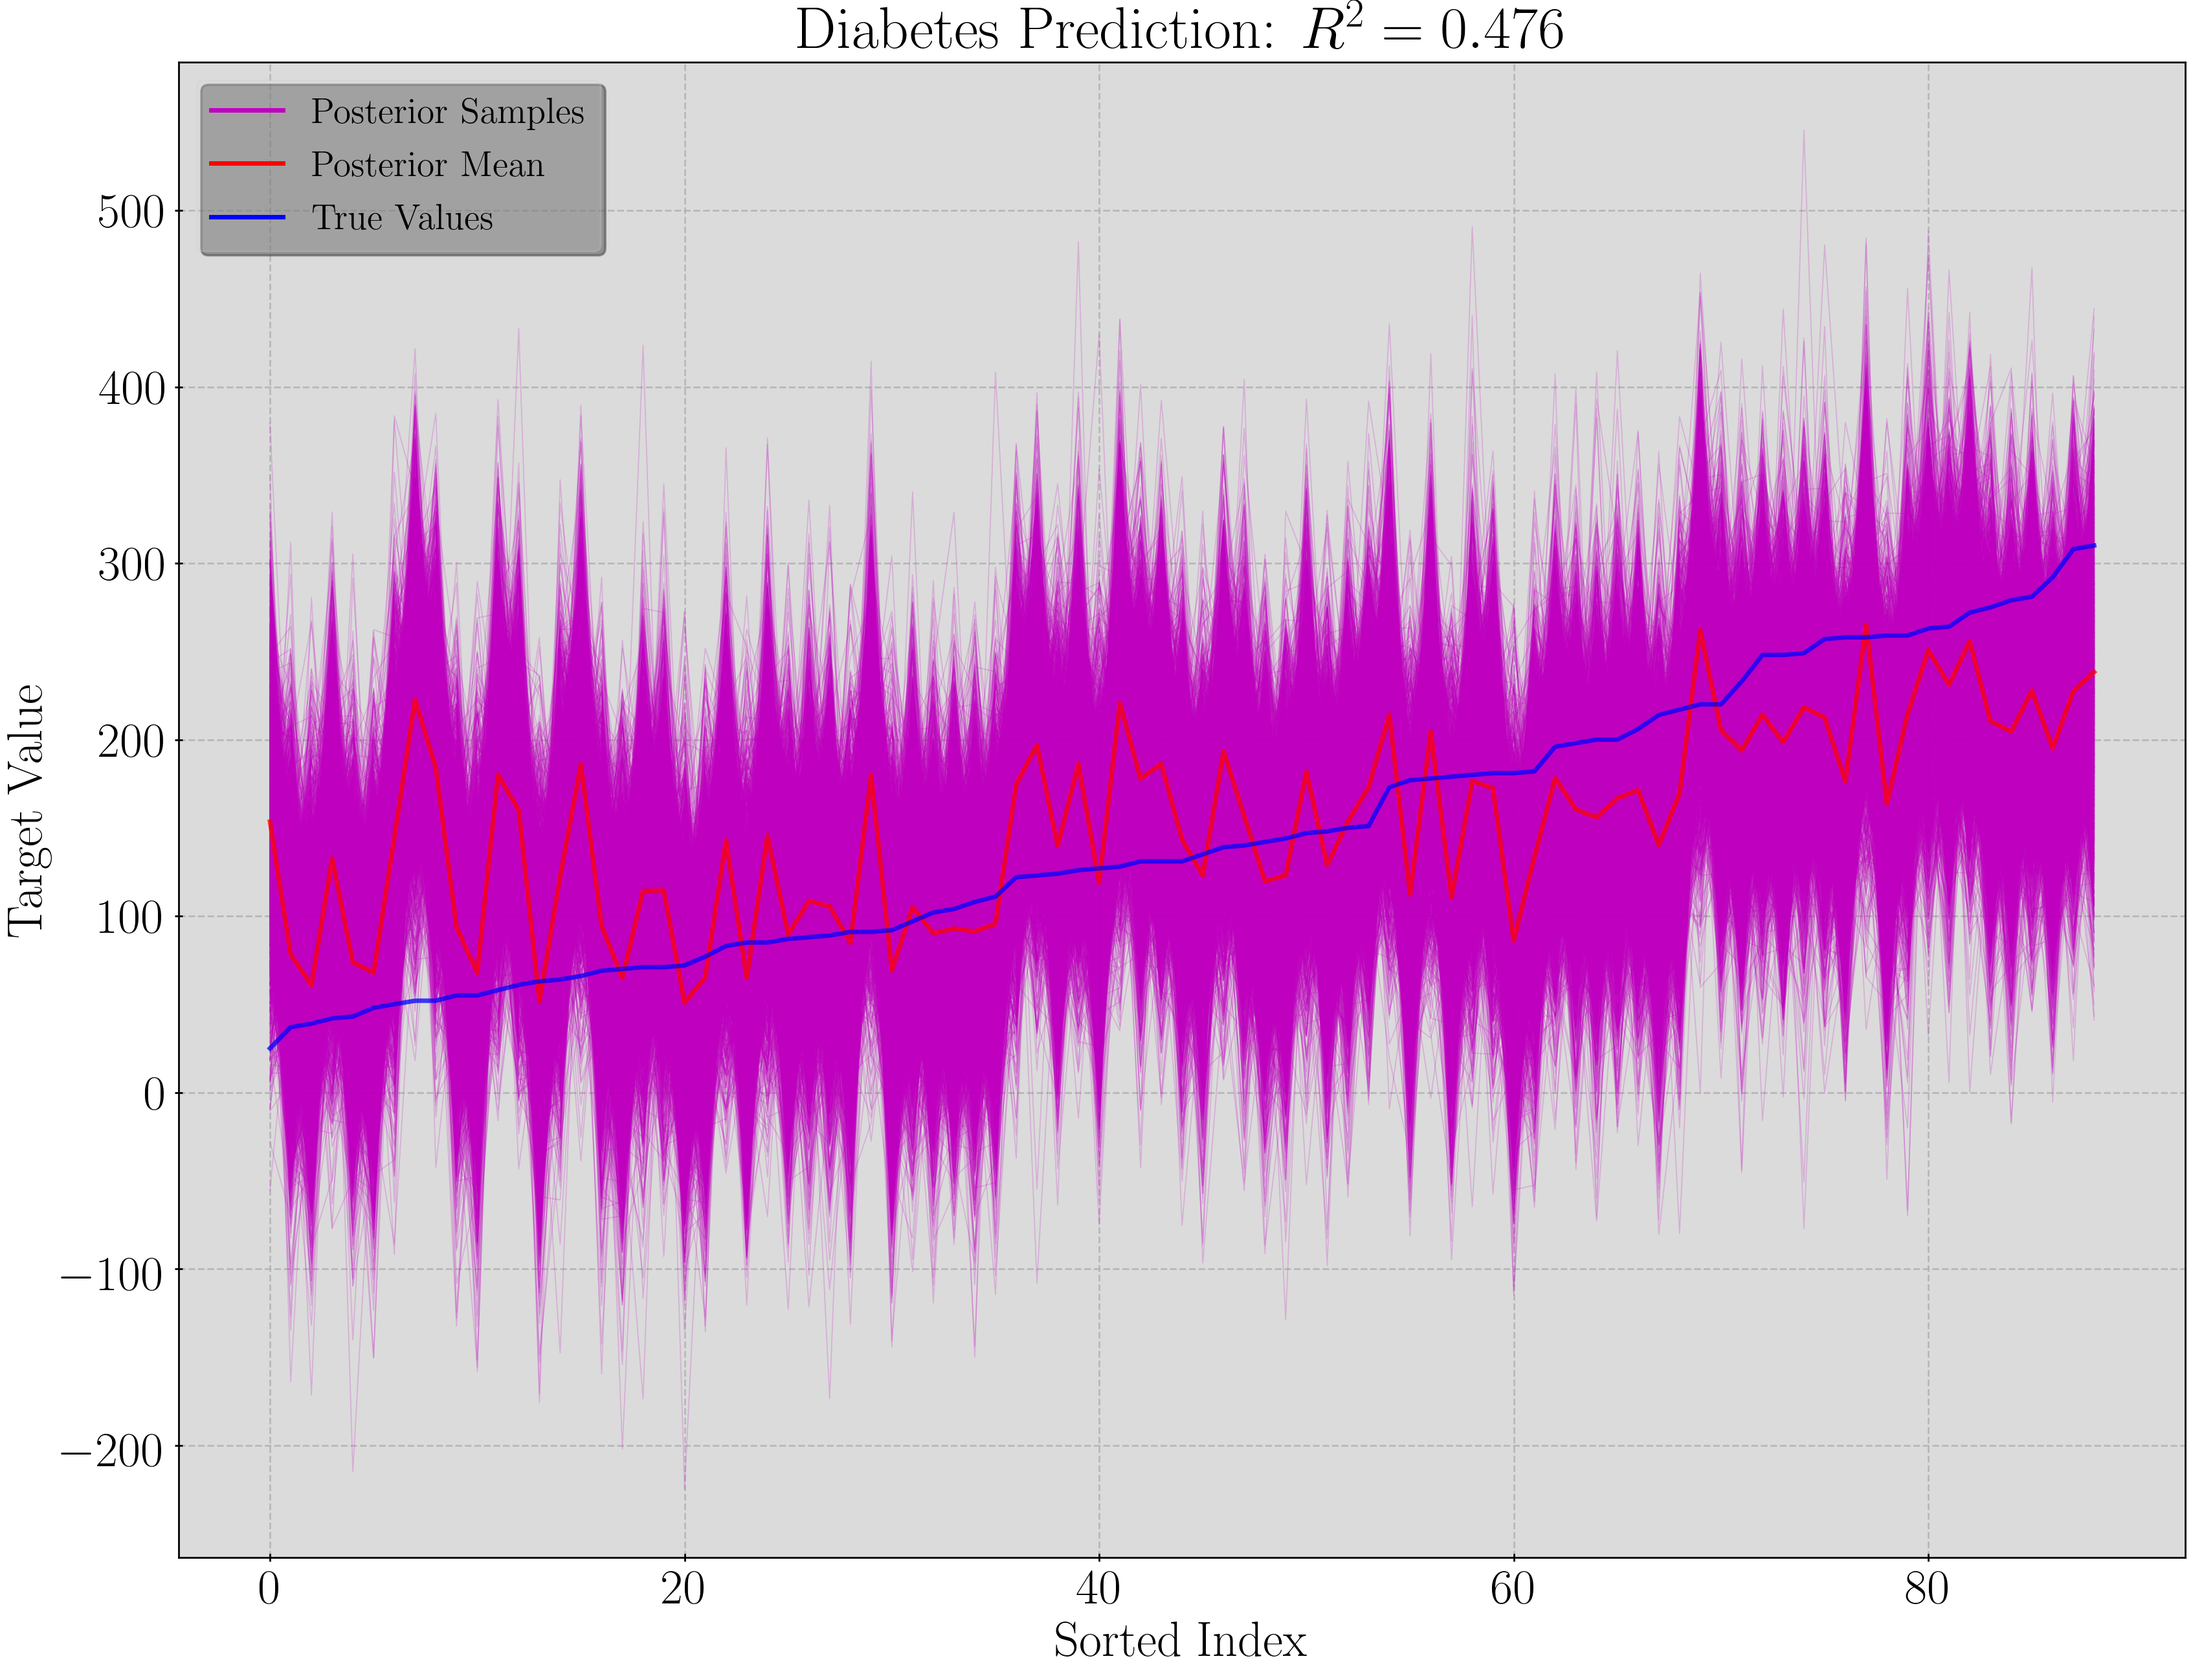
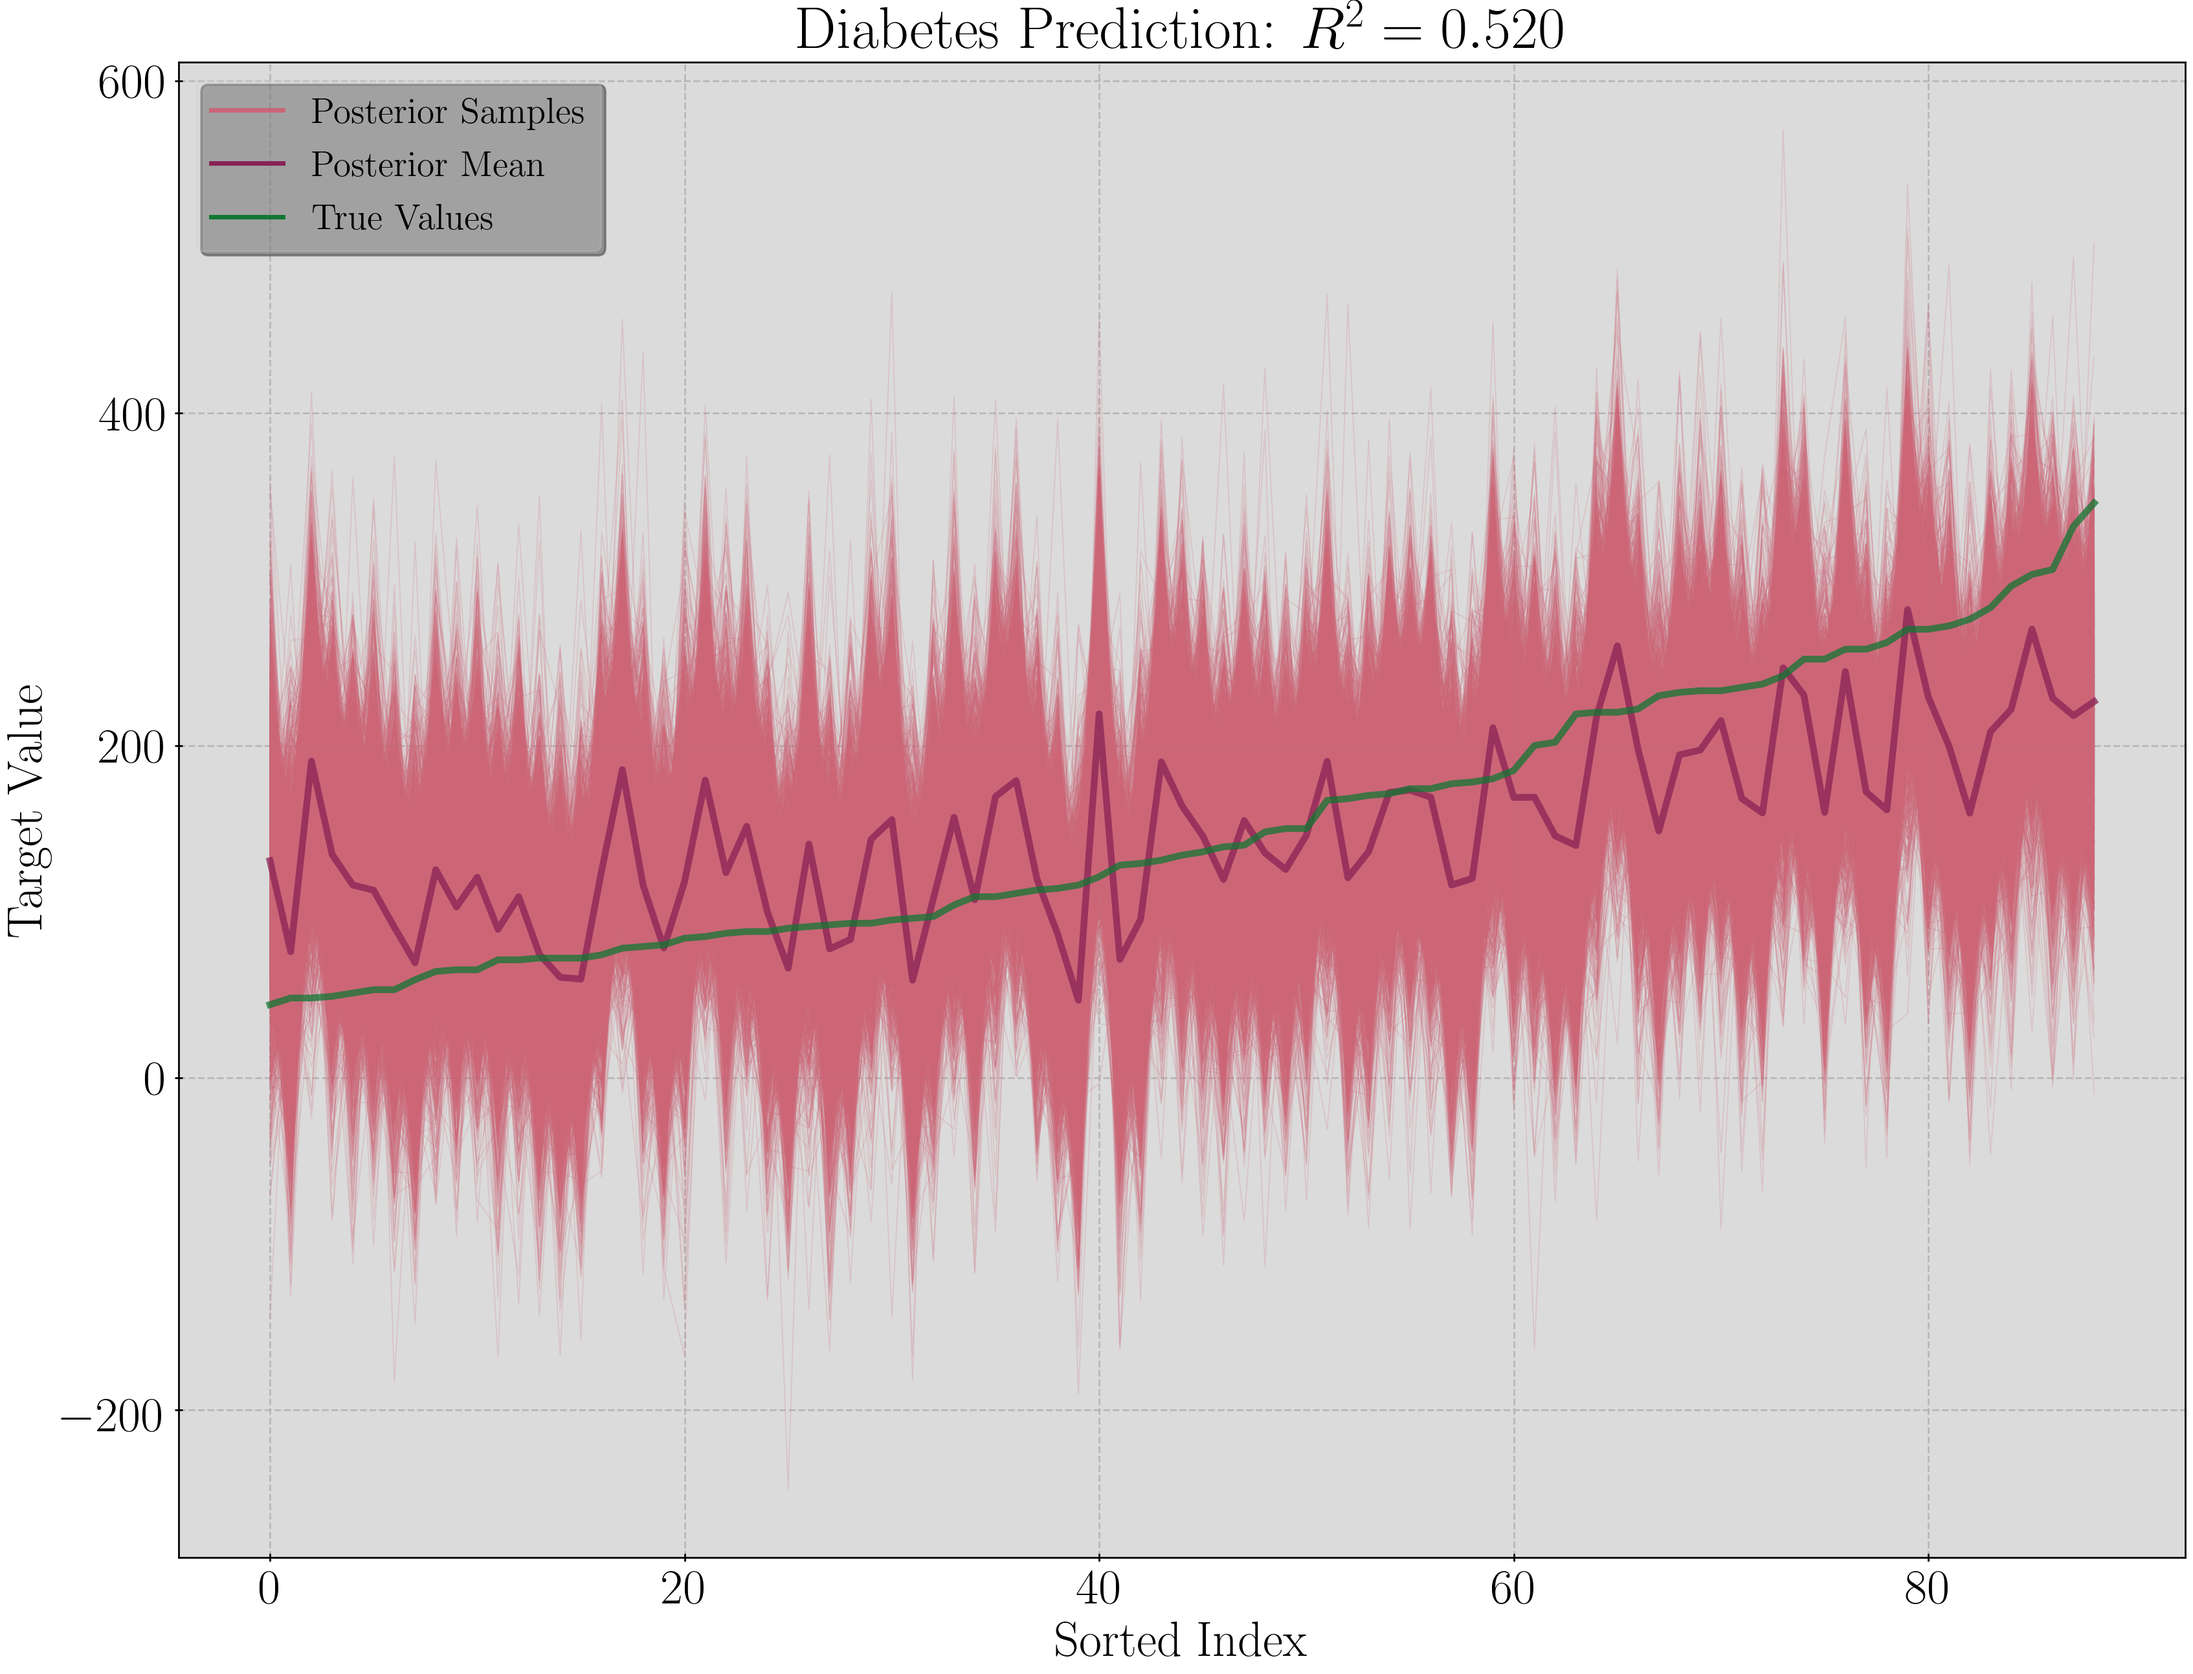
Improve the colour scheme.

diff --git a/stanlearn/examples/linear_regression.py b/stanlearn/examples/linear_regression.py
@@ -47,11 +47,11 @@ def do_example(X, y, name=None):
     plt.show()
 
     asort = np.argsort(y_train.ravel())
-    plt.plot(y_posterior_train.T[asort], linewidth=0.2, color="m", alpha=0.2)
-    plt.plot([], [], color="m", label="Posterior Samples")
-    plt.plot(y_train_hat[asort], linewidth=2, color="r", alpha=0.75,
+    plt.plot(y_posterior_train.T[asort], linewidth=0.2, color="#CC6677", alpha=0.2)
+    plt.plot([], [], color="#CC6677", label="Posterior Samples")
+    plt.plot(y_train_hat[asort], linewidth=3, color="#882255", alpha=0.75,
              label="Posterior Mean")
-    plt.plot(y_train[asort], linewidth=2, color="b", alpha=0.75,
+    plt.plot(y_train[asort], linewidth=3, color="#117733", alpha=0.75,
              label="Training Data")
     plt.title("Prior Predictive Check")
     plt.xlabel("Sorted Examples")
@@ -64,12 +64,12 @@ def do_example(X, y, name=None):
     r2 = model.score(X_test, y_test)
 
     asort = np.argsort(y_test)
-    plt.plot(y_posterior_test.T[asort], linewidth=0.5, color="m", alpha=0.2)
-    plt.plot(y_hat_test[asort], linewidth=2, color="r", alpha=0.75)
-    plt.plot(y_test[asort], linewidth=2, color="b", alpha=0.75)
-    plt.plot([], [], color="m", label="Posterior Samples")
-    plt.plot([], [], color="r", label="Posterior Mean")
-    plt.plot([], [], color="b", label="True Values")
+    plt.plot(y_posterior_test.T[asort], linewidth=0.5, color="#CC6677", alpha=0.2)
+    plt.plot(y_hat_test[asort], linewidth=3, color="#882255", alpha=0.75)
+    plt.plot(y_test[asort], linewidth=3, color="#117733", alpha=0.75)
+    plt.plot([], [], color="#CC6677", label="Posterior Samples")
+    plt.plot([], [], color="#882255", label="Posterior Mean")
+    plt.plot([], [], color="#117733", label="True Values")
     plt.title("{} Prediction: $R^2 = {:0.3f}$".format(name, r2))
     plt.xlabel("Sorted Index")
     plt.ylabel("Target Value")

diff --git a/stanlearn/linear_regression/linear_regression.py b/stanlearn/linear_regression/linear_regression.py
@@ -57,7 +57,7 @@ class BayesLinearRegression(BaseEstimator, RegressorMixin, StanCacheMixin):
         self.max_samples_mem = max_samples_mem
 
         if normalize:
-            self._y_ss = StandardScaler(with_mean=False)
+            self._y_ss = StandardScaler()
             self._X_ss = StandardScaler()
         return
 
